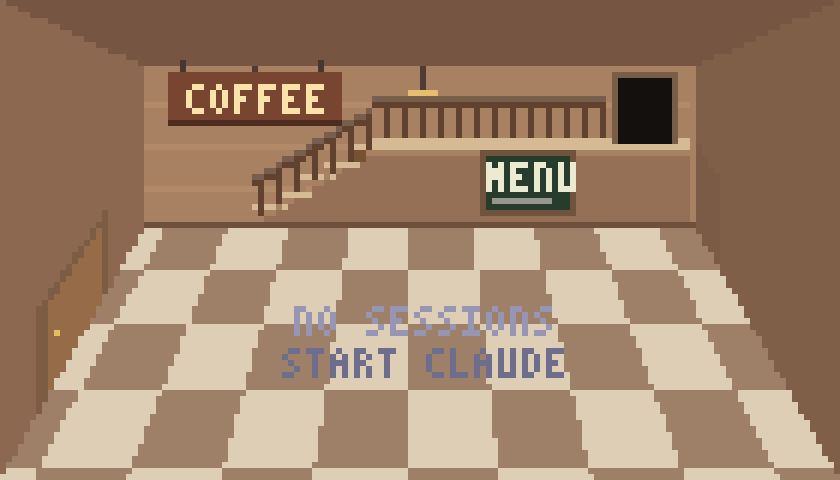
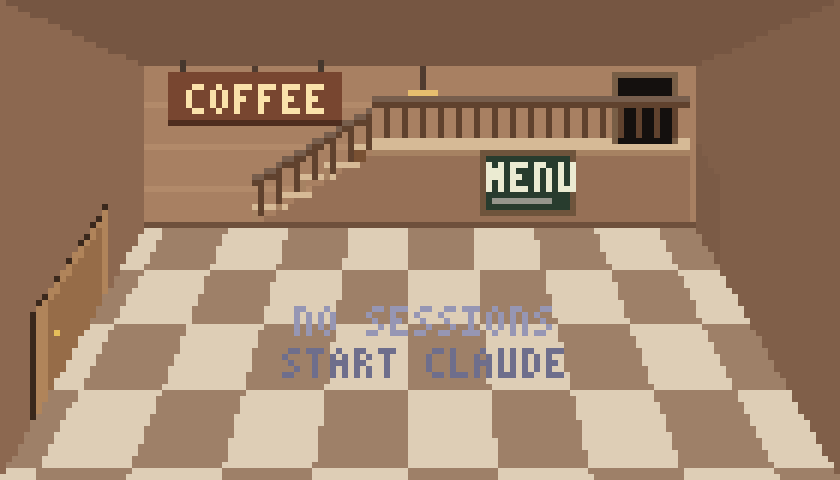
fix(gates): doors get a dark outline and a light frame so they read on any wall; the platform door is behind the banister
Claude-Session: https://claude.ai/code/session_01Qh8rgvM7rmNLjSCToqfMbz

Changed region(s): [[0.031, 0.4375, 0.1548, 0.875], [0.7119, 0.1875, 0.8357, 0.2812]]

diff --git a/c/theme.c b/c/theme.c
@@ -277,7 +277,9 @@ static void wall_door(Canvas *c, const View *v, int right, double fx, double fy,
     view_world(v, fx, fy, &X, &Z);
     double xw = right ? v->xw : -v->xw, z0 = Z - 0.1 * Z, z1 = Z + 0.1 * Z, e = view_e(v, 17) * p, fr = 0.02 * Z, fe = view_e(v, 2);
     if (e <= 0) return;
-    wq(c, v, xw, z0, 0, xw, z1, 0, xw, z1, e + fe, xw, z0, e + fe, RGB(124, 92, 66));           /* the frame */
+    double ol = 0.012 * Z; /* a dark outline, so the door reads on any wall (light office, brown coffee shop) */
+    wq(c, v, xw, z0 - ol, 0, xw, z1 + ol, 0, xw, z1 + ol, e + fe + view_e(v, 1), xw, z0 - ol, e + fe + view_e(v, 1), RGB(58, 40, 28));
+    wq(c, v, xw, z0, 0, xw, z1, 0, xw, z1, e + fe, xw, z0, e + fe, RGB(176, 132, 90));           /* the frame */
     double i0 = z0 + fr, i1 = z1 - fr;
     wq(c, v, xw, i0, 0, xw, i1, 0, xw, i1, e, xw, i0, e, RGB(40, 32, 28));                         /* the doorway */
     double lz = i1 - (i1 - i0) * (1 - open * 0.8);                                               /* the leaf, hinged at the back */
@@ -332,9 +334,9 @@ static void back_stairs(Canvas *c, const View *v, int coffee, double p) {
         canvas_rect(c, dxl - 1, yl - dh - 1, dw + 2, dh + 1, WOOD_LT);
         canvas_rect(c, dxl, yl - dh, dw, dh, RGB(20, 16, 14));
     }
-    /* the banister: balusters and a rail 6 px above the stairs and along the platform's edge (stopping before the door) */
-    for (int x = x0 + 1; x < dxl - 2; x += 3) { int ty = x < x1 ? y0 - (y0 - yl) * (x - x0) / (x1 - x0) : yl - 1; canvas_rect(c, x, ty - 5, 1, 5, rail); }
-    for (int x = x0; x < dxl - 2; x++) { int ty = x < x1 ? y0 - (y0 - yl) * (x - x0) / (x1 - x0) : yl - 1; canvas_px(c, x, ty - 6, rail); canvas_px(c, x, ty - 7, lt(rail, 0.15)); }
+    /* the banister: balusters and a rail 6 px above the stairs and all along the platform's edge (the door is behind it) */
+    for (int x = x0 + 1; x < xr - 1; x += 3) { int ty = x < x1 ? y0 - (y0 - yl) * (x - x0) / (x1 - x0) : yl - 1; canvas_rect(c, x, ty - 5, 1, 5, rail); }
+    for (int x = x0; x < xr; x++) { int ty = x < x1 ? y0 - (y0 - yl) * (x - x0) / (x1 - x0) : yl - 1; canvas_px(c, x, ty - 6, rail); canvas_px(c, x, ty - 7, lt(rail, 0.15)); }
     if (coffee && xr - x1 > 20 && y0 - yl >= 11) menu_board(c, (x1 + xr) / 2 - 8, yl + 1 + (y0 - yl - 11) / 2); /* the menu on the platform's face */
 }
 /* indoors, down: a stair well at the front: a trapezoid opening, its side walls going down, the steps dropping away and
